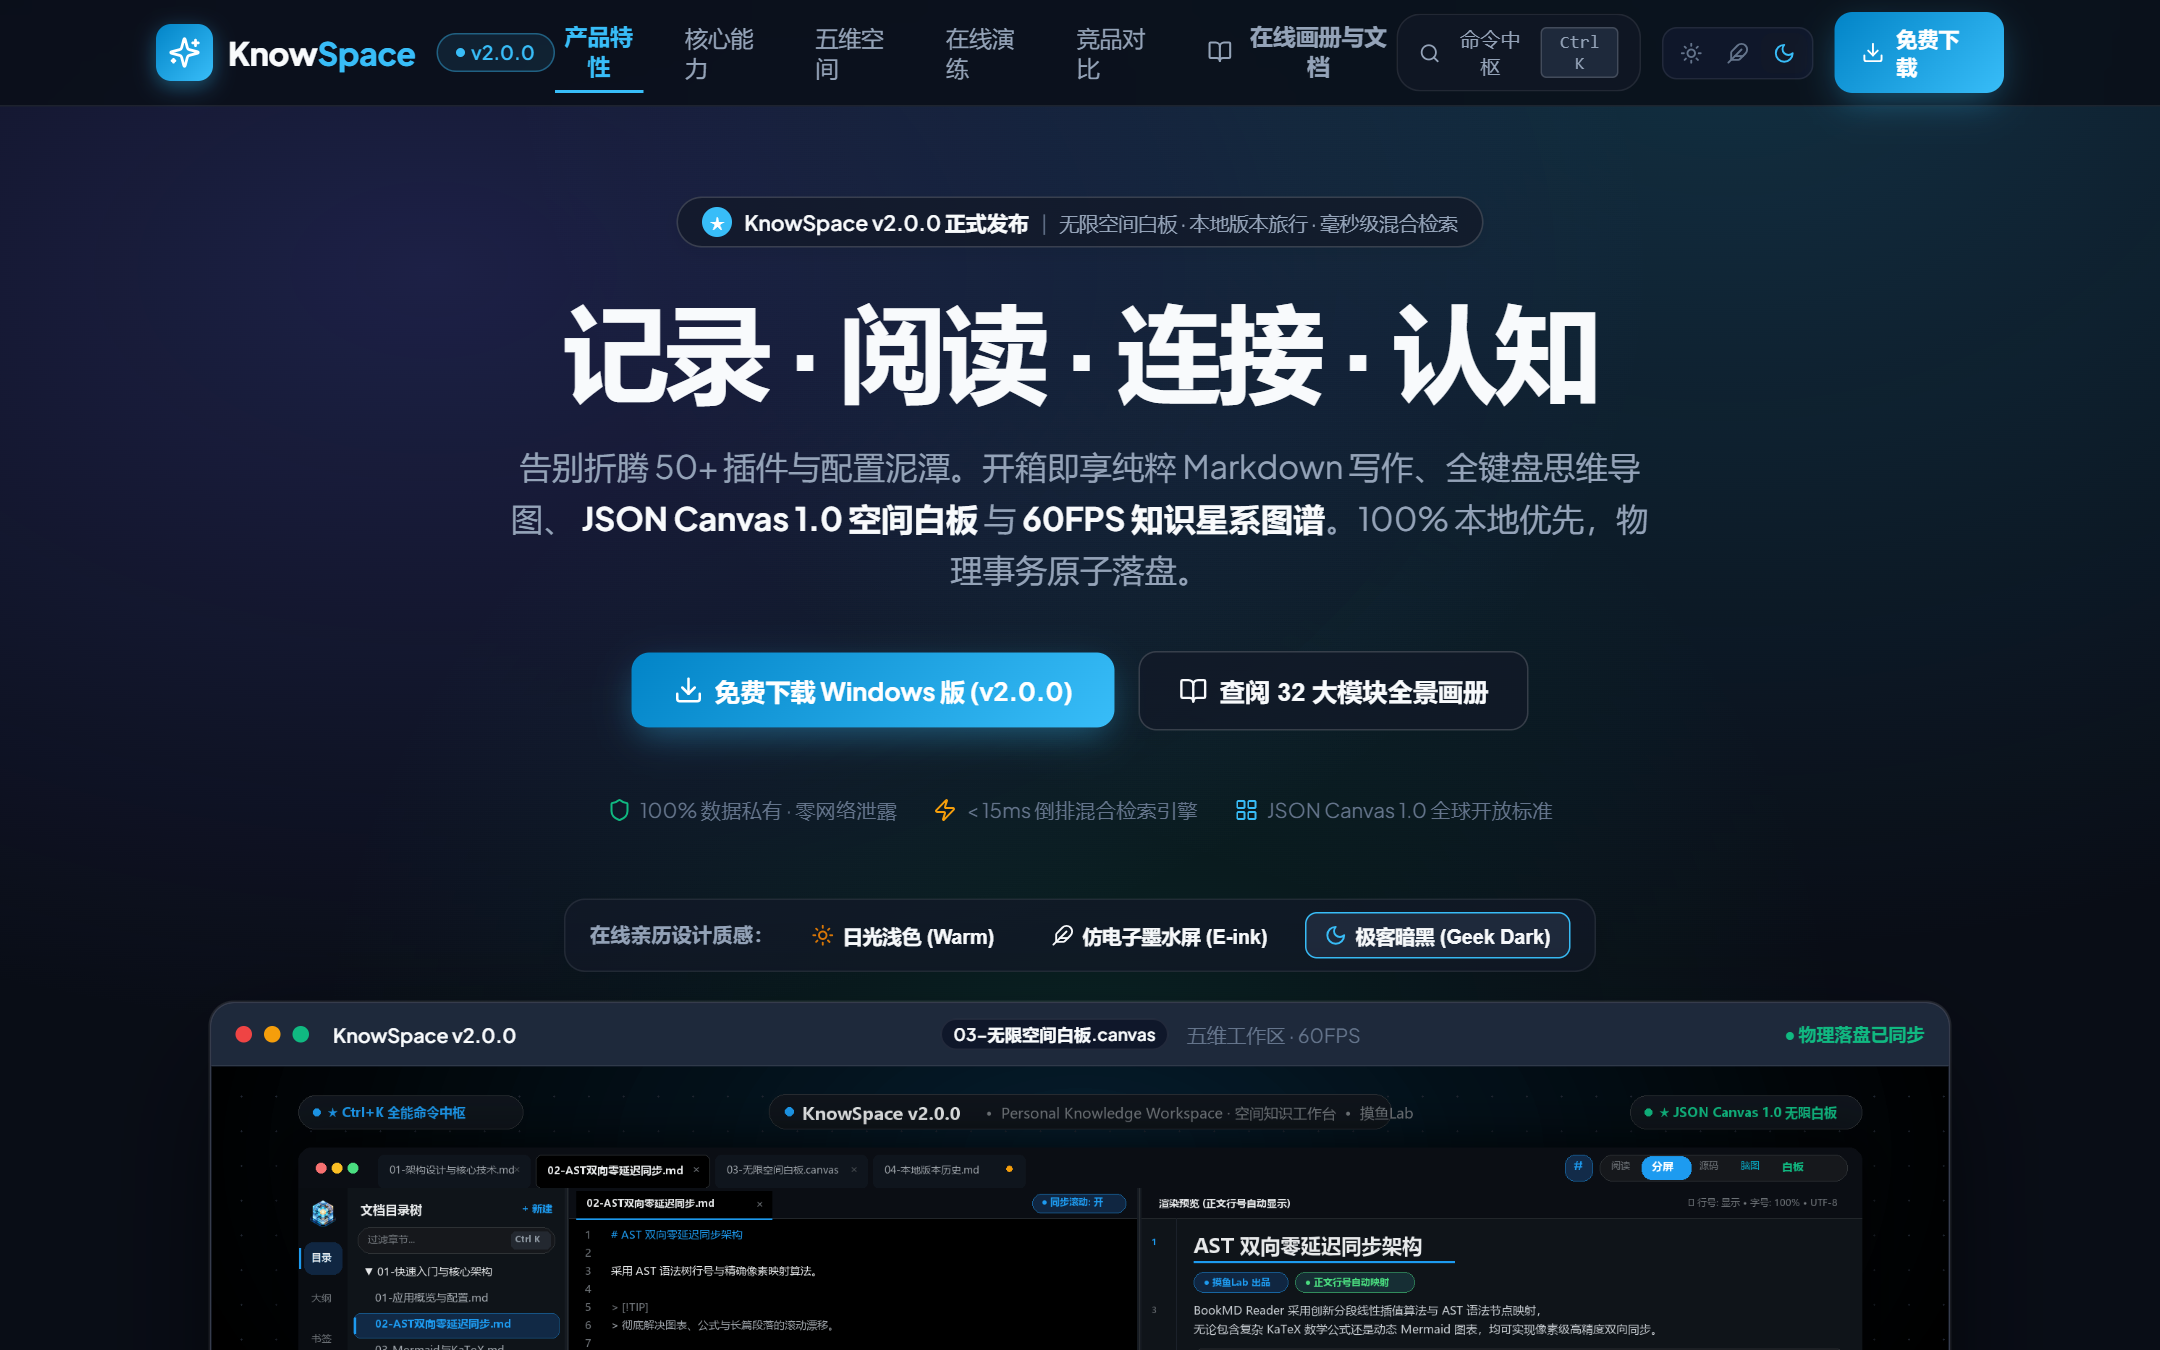
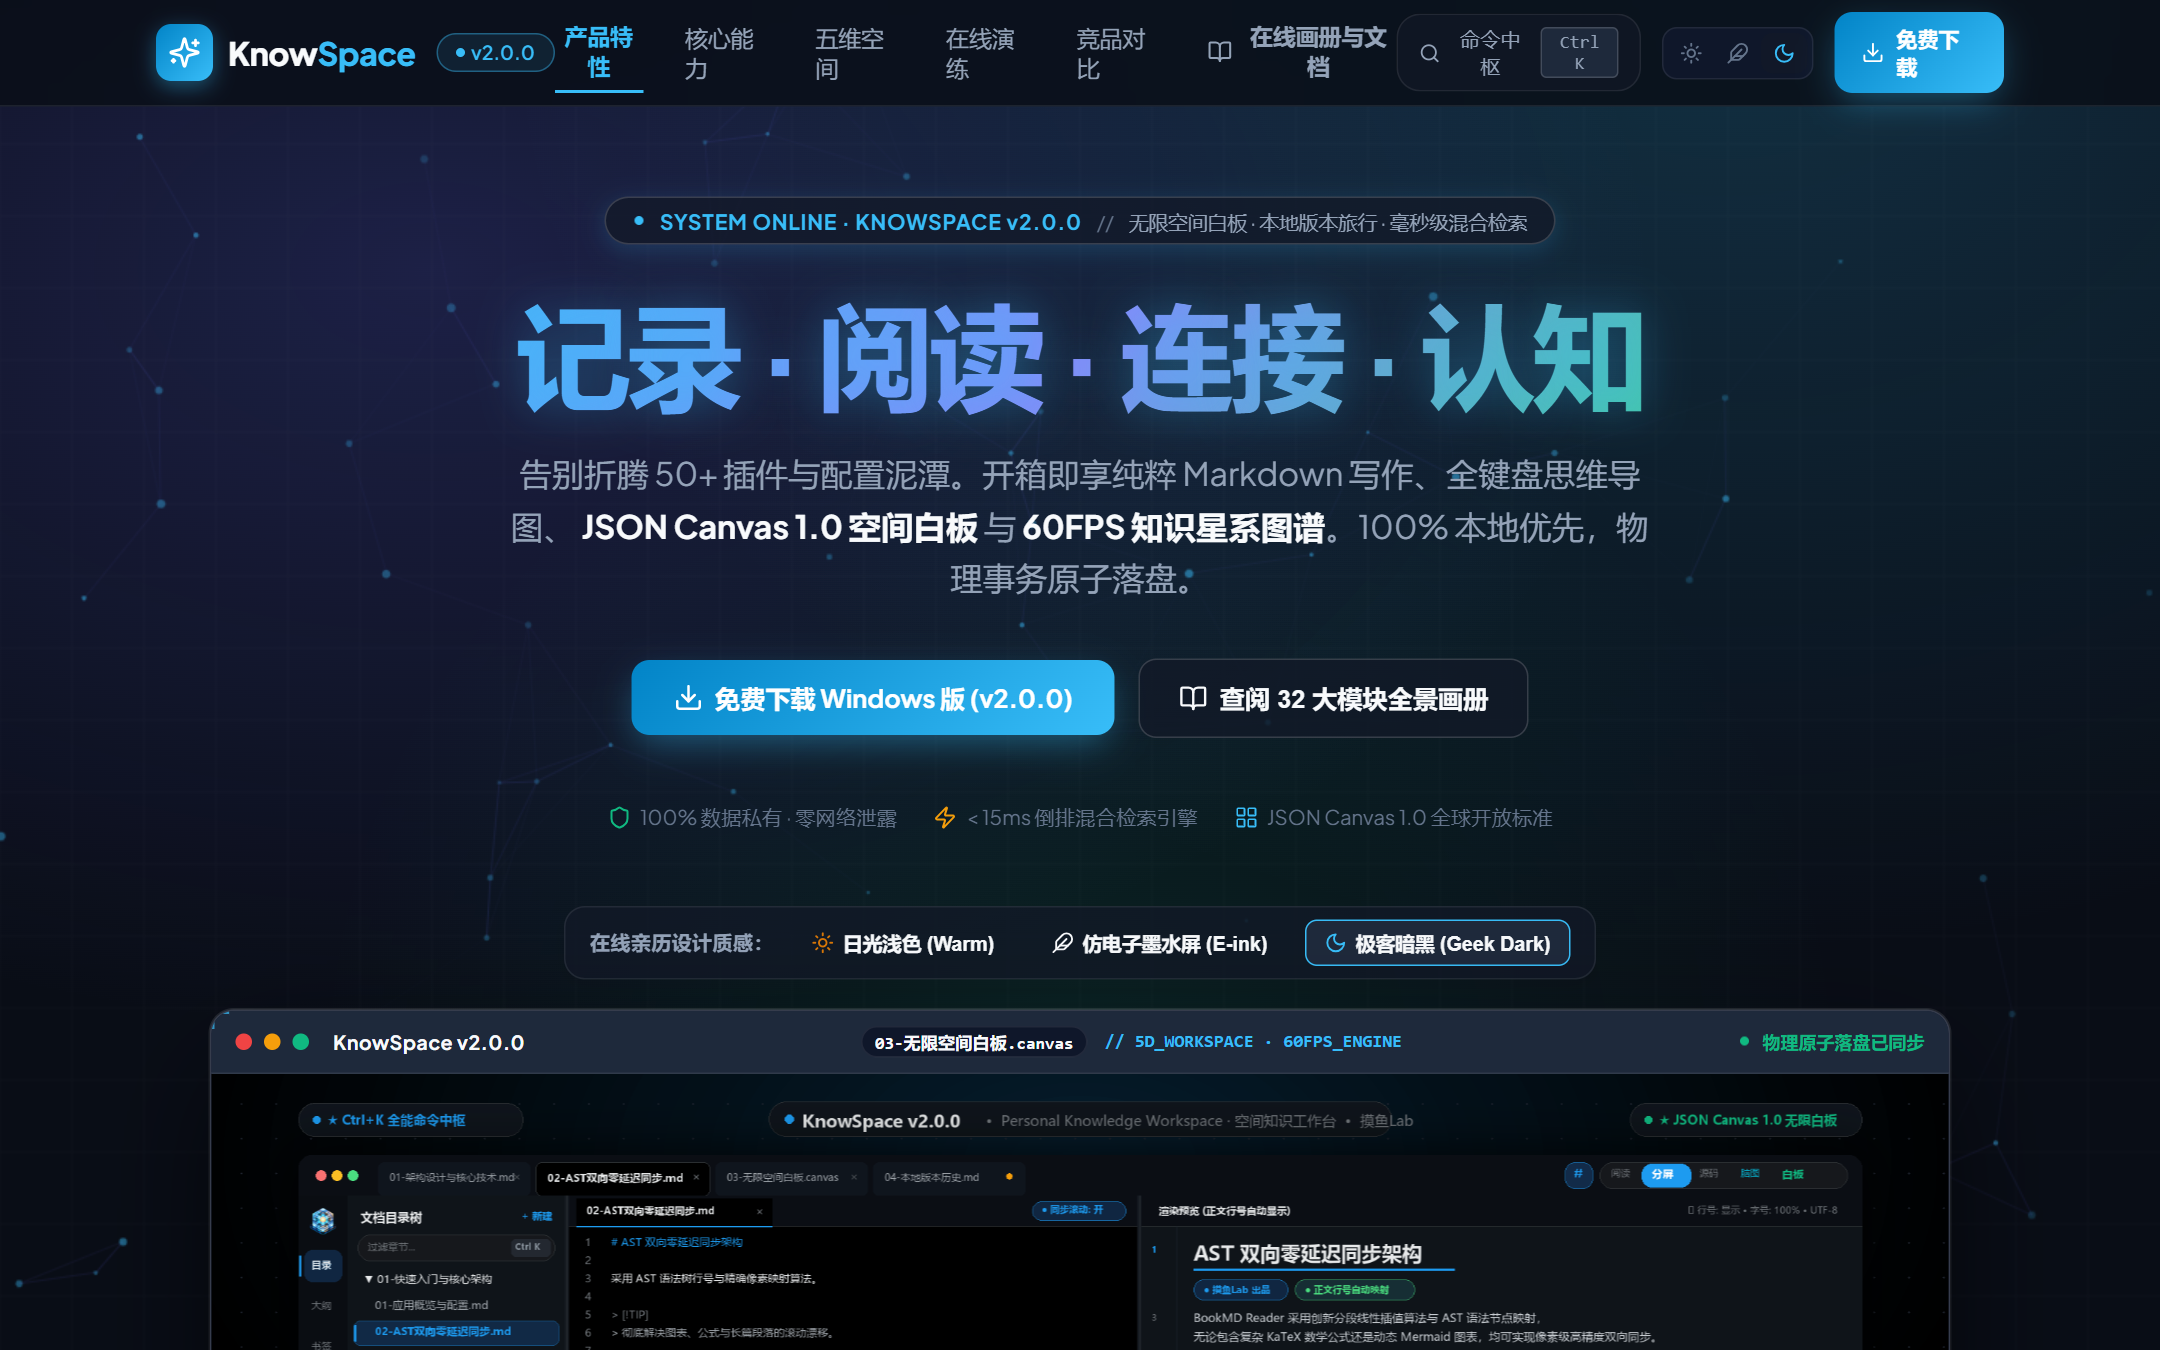
feat(web): enhance landing page with cyber background, bracket aesthetics, and updated previews

diff --git a/web/src/components/Workspace5D.tsx b/web/src/components/Workspace5D.tsx
@@ -72,13 +72,18 @@ export const Workspace5D: React.FC = () => {
       </div>
 
       {/* Mode Showcase Stage */}
-      <div className="glass-panel" style={{ padding: '36px', overflow: 'hidden' }}>
+      <div className="glass-panel cyber-bracket-container" style={{ padding: '36px', overflow: 'hidden' }}>
         <div style={{ display: 'grid', gridTemplateColumns: 'repeat(auto-fit, minmax(320px, 1fr))', gap: 36, alignItems: 'center' }}>
           {/* Mode Description & Highlights */}
           <div>
-            <span className="badge-pill" style={{ marginBottom: 14, color: 'var(--accent-cyan)' }}>
-              维度模式 {WORKSPACE_MODES.findIndex(m => m.id === activeTab) + 1} / 5
-            </span>
+            <div style={{ display: 'flex', alignItems: 'center', gap: 10, marginBottom: 14 }}>
+              <span className="badge-pill" style={{ color: 'var(--accent-cyan)', borderColor: 'currentColor' }}>
+                DIMENSION_0{WORKSPACE_MODES.findIndex(m => m.id === activeTab) + 1}
+              </span>
+              <span style={{ fontSize: '0.75rem', fontFamily: 'monospace', color: 'var(--text-muted)' }}>
+                // MODE_FLOW_ACTIVE
+              </span>
+            </div>
             <h3 style={{ fontSize: '1.75rem', fontWeight: 800, marginBottom: 14, color: 'var(--text-primary)' }}>
               {currentMode.title}
             </h3>

diff --git a/web/src/components/BentoGrid.tsx b/web/src/components/BentoGrid.tsx
@@ -25,12 +25,12 @@ export const BentoGrid: React.FC<BentoGridProps> = () => {
 
       {/* Bento Grid Container */}
       <div className="bento-grid">
-        {BENTO_FEATURES.map((item) => {
+        {BENTO_FEATURES.map((item, index) => {
           const colClass = `bento-${item.colSpan}`;
           return (
             <div
               key={item.id}
-              className={`glass-panel glass-interactive ${colClass}`}
+              className={`glass-panel glass-interactive cyber-card-tilt cyber-bracket-container ${colClass}`}
               style={{
                 padding: '30px',
                 display: 'flex',
@@ -50,6 +50,10 @@ export const BentoGrid: React.FC<BentoGridProps> = () => {
                     borderColor: 'currentColor'
                   }}>
                     {item.badge}
+                  </span>
+
+                  <span style={{ fontSize: '0.75rem', fontFamily: 'monospace', color: 'var(--text-muted)', letterSpacing: '0.05em' }}>
+                    // 0{index + 1}_SPEC
                   </span>
                 </div>
 

diff --git a/web/src/App.tsx b/web/src/App.tsx
@@ -12,6 +12,7 @@ import { DocsViewer } from './components/DocsViewer';
 import { FaqSection } from './components/FaqSection';
 import { Footer } from './components/Footer';
 import { CommandPaletteModal } from './components/CommandPaletteModal';
+import { CyberBackground } from './components/CyberBackground';
 
 export const App: React.FC = () => {
   const [currentTheme, setCurrentTheme] = useState<'dark' | 'light' | 'eink'>('dark');
@@ -37,8 +38,9 @@ export const App: React.FC = () => {
 
   return (
     <div style={{ minHeight: '100vh', display: 'flex', flexDirection: 'column' }}>
-      {/* Background Mesh Atmosphere */}
+      {/* Background Mesh & Interactive Cyber Constellation */}
       <div className="ambient-mesh" />
+      <CyberBackground theme={currentTheme} />
 
       {/* Sticky Top Navigation */}
       <Navbar

diff --git a/web/src/components/InteractiveStage.tsx b/web/src/components/InteractiveStage.tsx
@@ -124,7 +124,7 @@ export const InteractiveStage: React.FC = () => {
       </div>
 
       {/* Sandbox Body Container */}
-      <div className="glass-panel" style={{ padding: '36px', minHeight: 460, position: 'relative' }}>
+      <div className="glass-panel cyber-bracket-container" style={{ padding: '36px', minHeight: 460, position: 'relative' }}>
         {/* Sandbox 1: Canvas */}
         {activeSandbox === 'canvas' && (
           <div>
